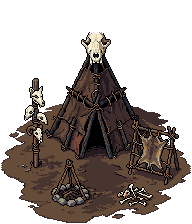
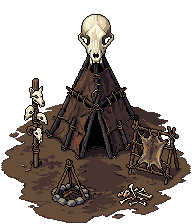
The five peoples get real compounds: camp art as composed 3x3 pieces
The camp PNGs were authored as 1x1 icons — a lone tent lost in the middle
of the yard the camp system spreads around it. Each people now ships ONE
composed compound piece: a dominant central structure carrying the tribe's
identity, three or four shorter peripherals from its own prop lore, and a
ragged organic stain of trampled earth — silhouette-first differentiation:

  wolf    Wolfskins   tall and totemic — skull-crowned hide lodge
  flint   Flintfolk   low and wide — turf longhut, antler-stone totem
  broken  the Broken  angular and ruined — burnt leaning gable, torn banner
  woad    Woadkin     rounded — woad-daubed bender, wicker idol
  sea     Sea Folk    a beached longboat AS the hall, beast-head prow

Shared hostile cues a player learns once: a skull/trophy standard on every
camp, on the dark charred-timber-and-hide palette — against the player's
golden thatch.

HOW a 1x1 building renders a 3x3 compound: the existing camp sidecar
(camp-{tribe}.json, scale 3 + offsetY 1) through the same artRect path
every building uses — fog ghosts, burn states and the panel icon inherit
it; the footprint, pathing and hit-testing are untouched. drawCampDress
stands its procedural litter down when the installed camp art declares
compound scale (>1.5 footprints), so the piece is never double-dressed —
the raider-camps contract still exercises the litter path and passes.

Masters: PixelLab pro at 192px (the shipped hall as a labelled camera
[…]

Changed region(s): [[0.4062, 0.0625, 0.5938, 0.2188]]

diff --git a/js/render.js b/js/render.js
@@ -6327,6 +6327,13 @@ const R = {
      burn the camp out and the litter goes with the band; the worn ground is
      what remains (the T.CAMP tile). Render-only: nothing here touches S. */
   drawCampDress(g, b) {
+    /* a COMPOUND camp PNG (sidecar scale past ~1.5 footprints) paints its own
+       yard — lodge, trophies, fire and clearing in one composed piece — so
+       the procedural strewing stands down rather than double-dressing it.
+       Keyed off the installed art's own sidecar, not a hand-kept list: a
+       tribe whose PNG ships without the compound scale keeps its litter. */
+    const own = Sprites.camp && Sprites.camp[b.tribe];
+    if (own && own._cfArt && (own._cfArt.scale || 1) > 1.5) return;
     const props = Sprites.campPropsFor(b.tribe);
     /* a dropped-in PNG wins the slot, one prop at a time — the override keys
        on the RESOLVED tribe (the wolf fallback), so an unknown-tribe camp

diff --git a/js/config.js b/js/config.js
@@ -16,7 +16,7 @@ const T = {
 
 const CFG = {
   SAVE_VERSION: 2,     // bump when the save shape changes; loadJSON migrates older saves
-  ART_V: 2,            // cache-buster on every art URL (?v=N) — bump when a PNG in
+  ART_V: 4,            // cache-buster on every art URL (?v=N) — bump when a PNG in
                        // assets/ is RE-UPLOADED under the same name, so the Pages
                        // CDN stops serving the stale copy. New filenames don't need it.
                        // v2: the de-fringed camp-woad/broken/sea PNGs — regenerated

diff --git a/ART_PLAN.md b/ART_PLAN.md
@@ -102,6 +102,21 @@ The snapshot written in `G.updateVisibility` now carries `tribe` alongside
 `key`/`level`/`owner`, and the fog-ghost lookup in `render.js` special-cases
 `raidercamp` the same way `bldSprite` does.
 
+**Shipped (2026-08-29): all five camps are COMPOUND pieces.** Each
+`camp-{tribe}.png` is one composed scene — a dominant central structure,
+3–4 shorter peripherals from the people's own prop lore, and a ragged
+organic stain of trampled earth — authored 192px (the 192 masters live in
+`assets/masters/`), shipped at 2× nearest-neighbor (384). The sidecar
+(`{"scale": 3, "offsetY": 1}`) renders it 3×3 tiles centered on the 1×1
+footprint through the ordinary `artRect` path; footprint, pathing and
+hit-testing are untouched. `R.drawCampDress` stands its procedural litter
+down when the installed camp art declares compound scale (> 1.5), so a
+compound is never double-dressed — delete the PNG (or ship one without the
+sidecar) and the litter comes back. Recipe that worked: PixelLab pro with
+the shipped `tc-l3.png` as a labelled camera reference and the approved
+Wolfskins piece as the style reference (plain pixen kept baking isometric
+diorama plinths); hard-alpha QC + dither-trim of edge contacts.
+
 ### Camp dressing: one PNG per prop, one prop at a time
 
 ```
